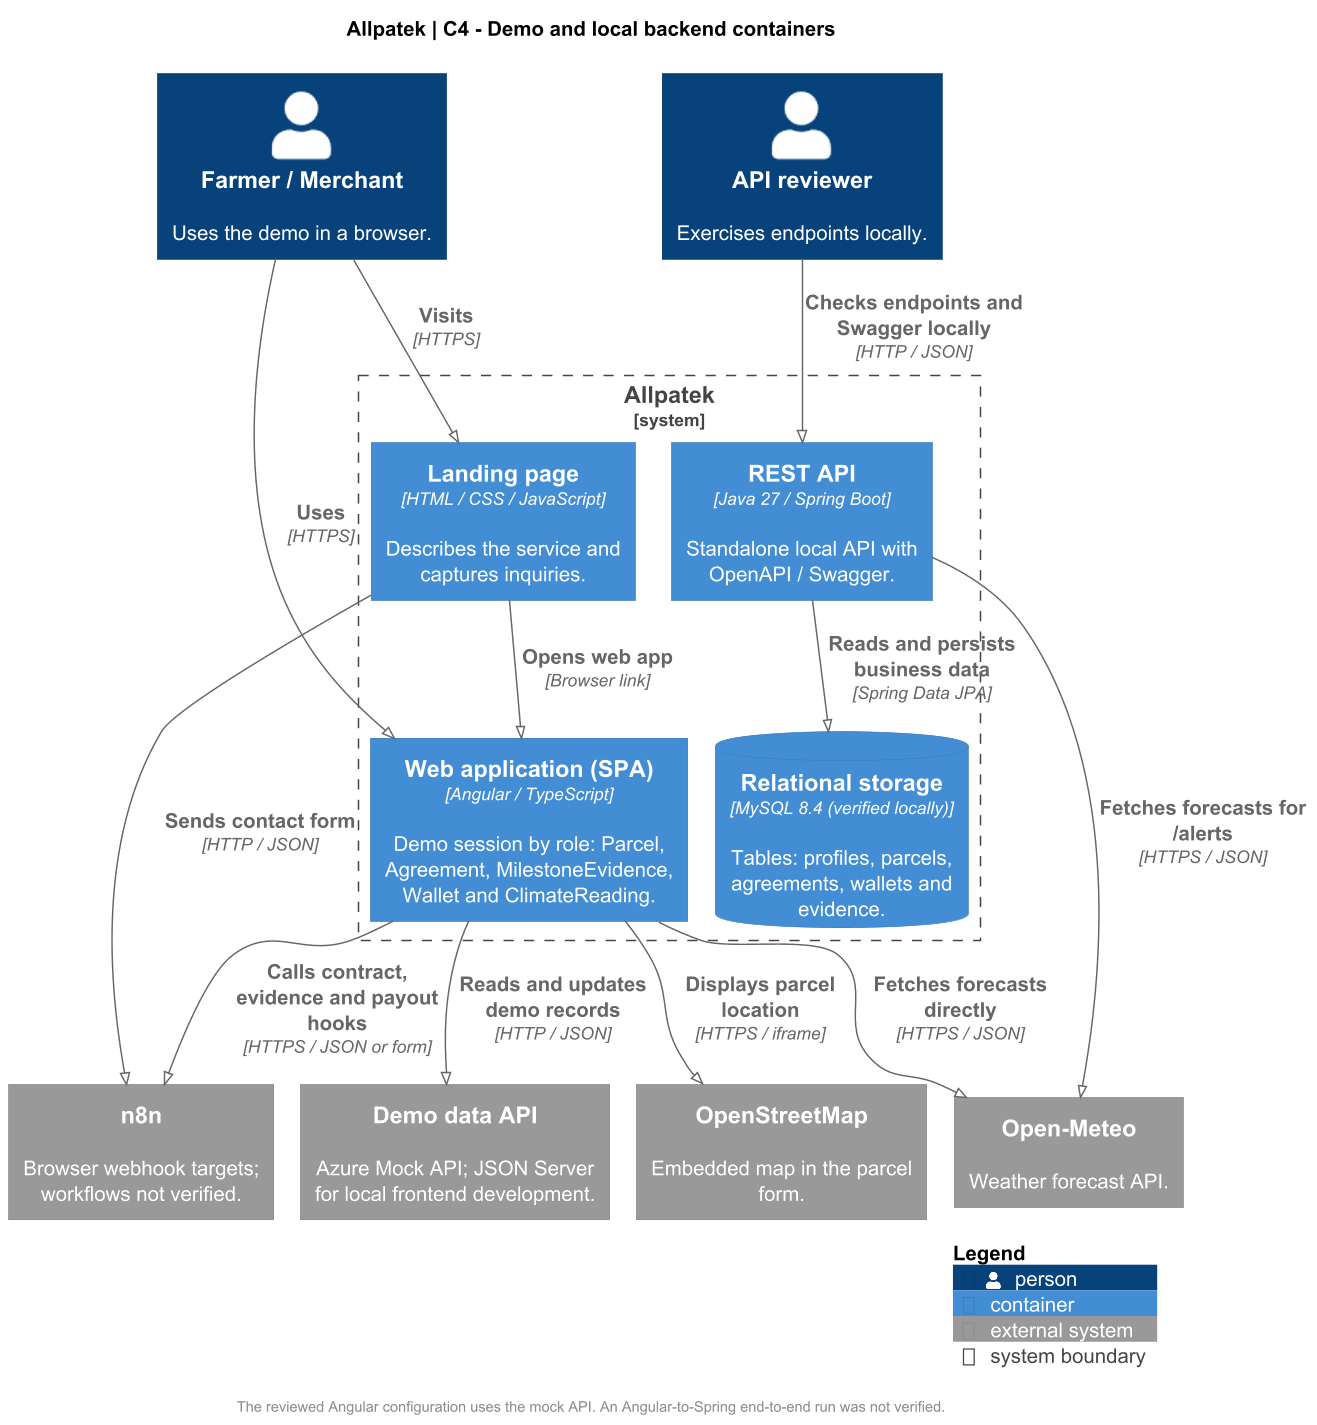
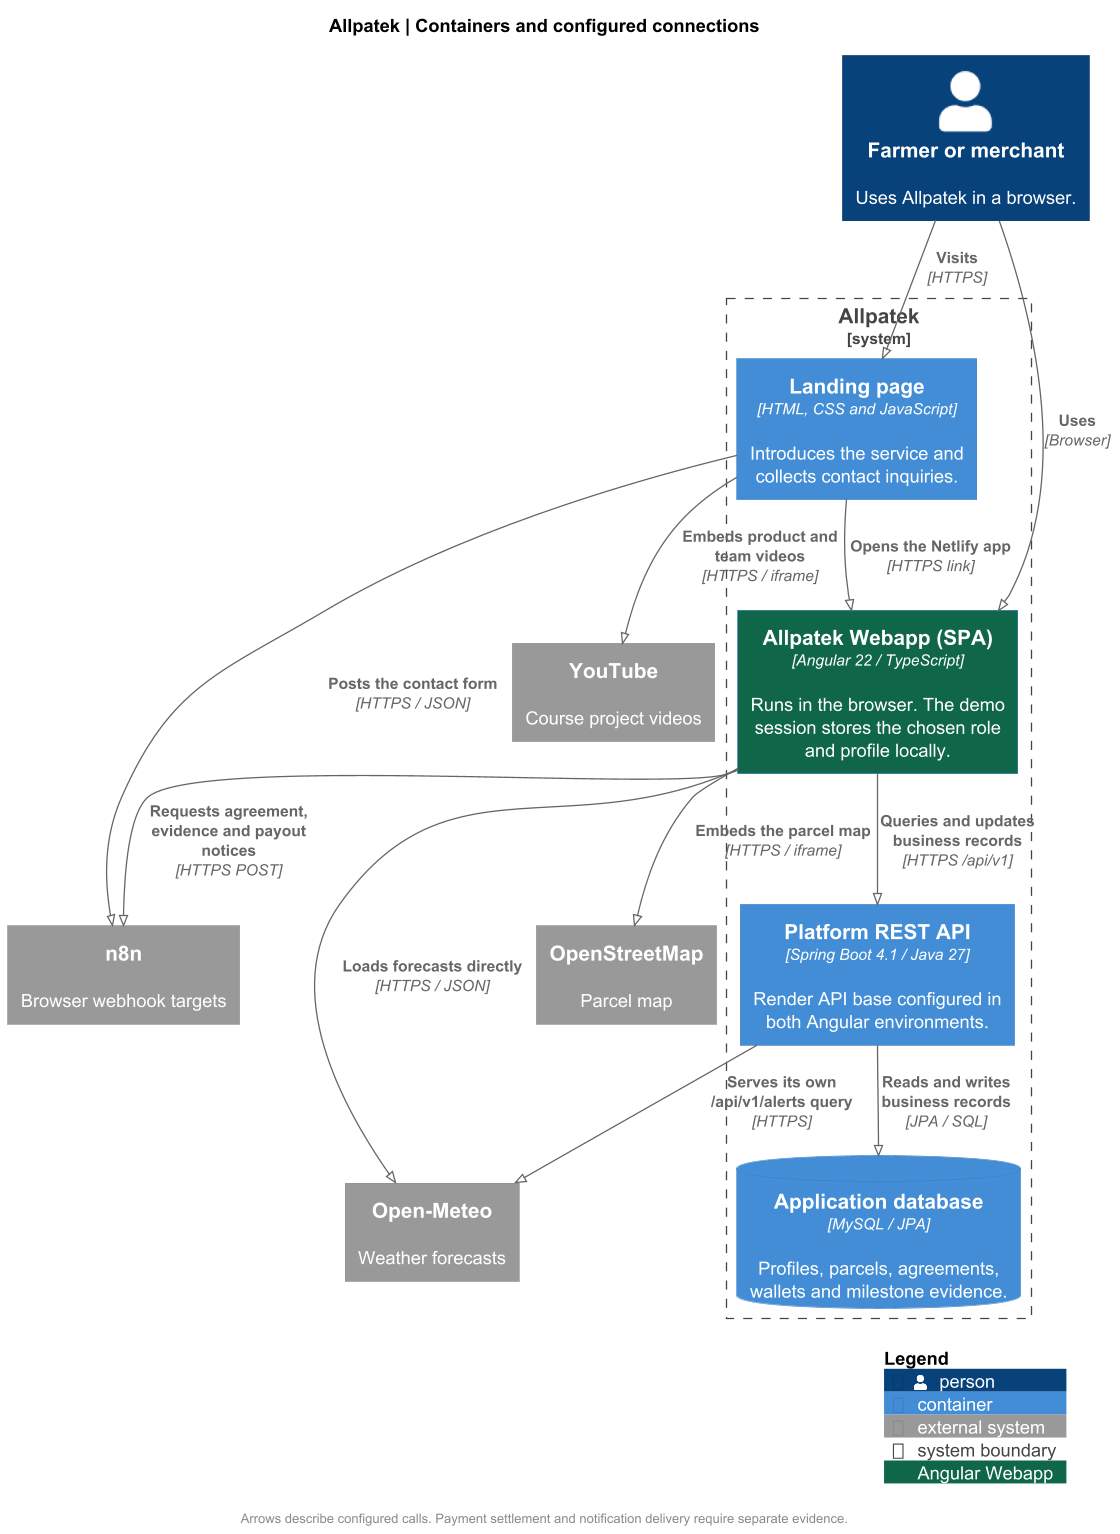
docs(c4): show the Angular webapp and its configured API connection

diff --git a/README.md b/README.md
@@ -2092,20 +2092,18 @@ El agricultor ofrece la parcela y registra el trabajo. El comerciante contrata l
 
 ### 4.6.3. Software Architecture Container Diagrams
 
-| Contenedor | Tecnología | Conexión observada |
+Cada recuadro dentro del límite de Allpatek representa una unidad que se puede desplegar por separado. El enlace de la landing abre la webapp y el navegador carga la SPA. Desde allí salen las solicitudes a la API, a los pronósticos y a los webhooks.
+
+| Contenedor | Tecnología | Responsabilidad y conexión |
 |---|---|---|
-| Landing | HTML, CSS y JavaScript | Abre la SPA, enlaza recursos y envía solicitudes de contacto a un webhook configurado. |
-| Aplicación web | SPA Angular 22.2, CSS, Signals, HttpClient y ngx-translate | Usa JSON Server local o Azure Mock API según el entorno. Consulta Open-Meteo y muestra un mapa de OpenStreetMap desde el navegador. |
-| API simulada | JSON Server / Azure Mock API | Colecciones parcels, agreements, wallets, evidence, profiles y users usadas por la demo. |
-| API de servicios | Java 27, Spring Boot 4.1.2, JPA, OpenAPI | REST /api/v1; verificada localmente con MySQL. También puede consultar Open-Meteo en /api/v1/alerts. |
-| Base de datos | MySQL | Guarda perfiles, parcelas, acuerdos, wallets y evidencias de la API Java. |
-| Automatización externa | n8n | Recibe solicitudes desde el navegador. El ZIP no incluye los workflows ni un generador de PDF en Spring. |
+| Landing page | HTML, CSS y JavaScript | Presenta el servicio, abre la SPA, incorpora dos videos de YouTube y envía el contacto a n8n. |
+| Allpatek Webapp | Angular, TypeScript y HttpClient | Ejecuta las pantallas en el navegador, consume la API por HTTPS e incorpora el mapa de OpenStreetMap. La vista de clima pide pronósticos directamente a Open-Meteo. |
+| Platform REST API | Java y Spring Boot | Expone recursos bajo `/api/v1`, utiliza JPA para acceder a MySQL y ofrece su propia consulta de clima. |
+| Base de datos | MySQL | Persiste perfiles, parcelas, acuerdos, billeteras y evidencias. |
 
-![Figura 4.6.3. Contenedores de la demo y de los servicios Java](assets/chapter-04/architecture/03-containers.png)
+![Figura 4.6.3. Contenedores desplegables y comunicación de la webapp](assets/chapter-04/architecture/03-containers.png)
 
-*Figura 4.6.3. Contenedores de la demo y de los servicios Java.* <a href="assets/chapter-04/architecture/03-containers.puml" style="text-decoration: none;">Fuente PlantUML</a> · <a href="assets/chapter-04/architecture/03-containers.svg" style="text-decoration: none;">SVG</a>.
-
-La SPA se descarga y ejecuta en el navegador. Su enrutador cambia de vista y sus servicios de datos cargan o actualizan los registros. La configuración revisada todavía separa la API simulada de la API Java: cambiar una URL no resuelve por sí solo los contratos, el acceso ni los datos iniciales.
+*Figura 4.6.3. Contenedores desplegables y comunicación de la webapp.* [Ampliar en SVG](assets/chapter-04/architecture/03-containers.svg) · [Fuente PlantUML](assets/chapter-04/architecture/03-containers.puml).
 
 ### 4.6.4. Software Architecture Components Diagrams
 
